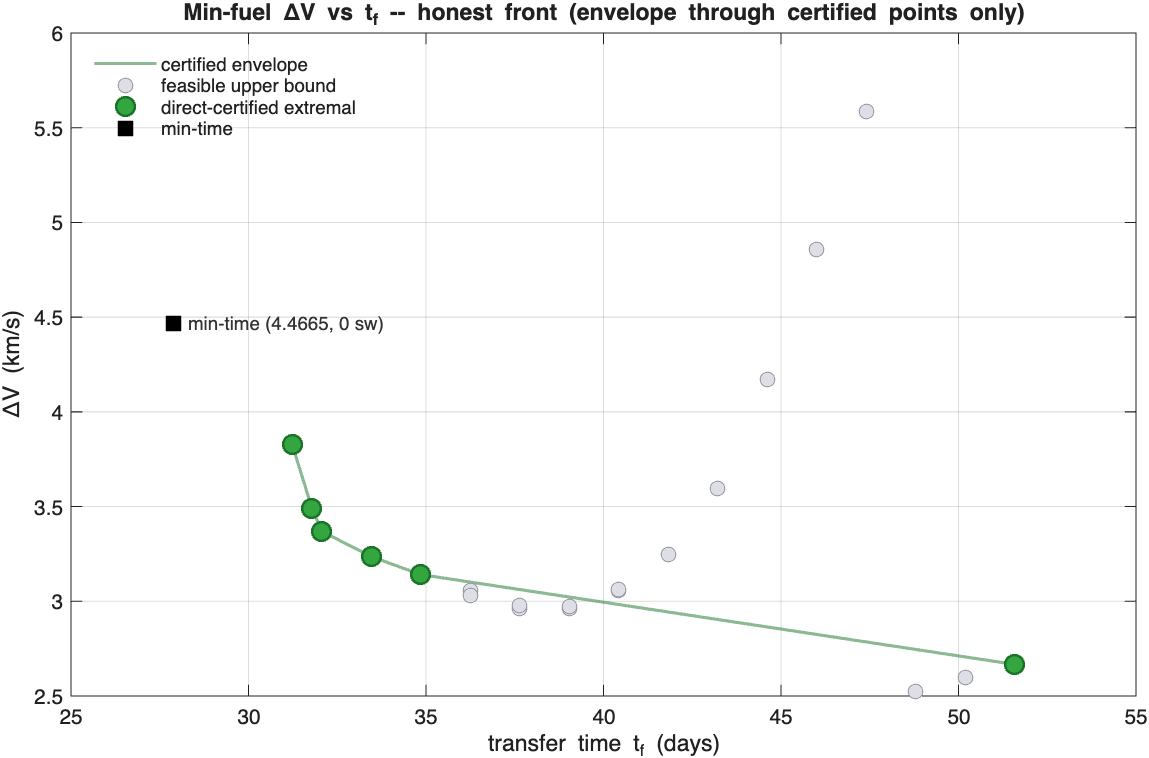
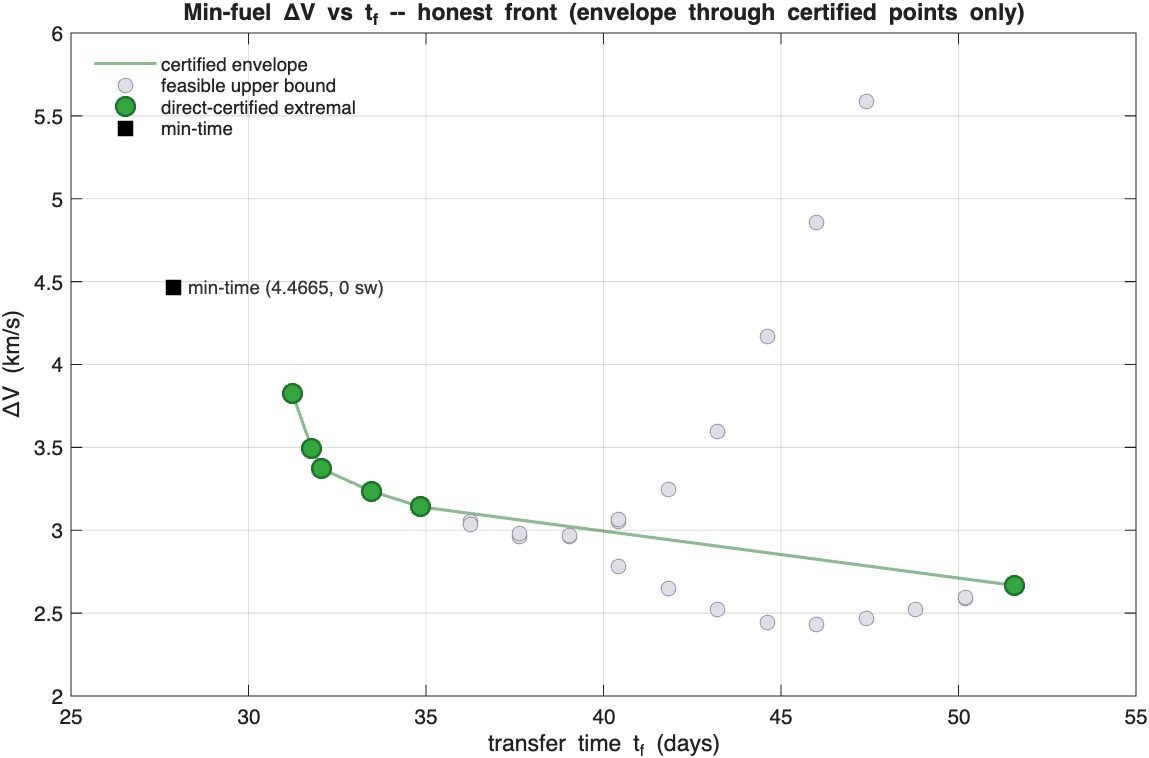
Few-switch down-chain sweeps 1.45-1.80x: campaign-best dV 2.434 km/s at 1.65x
Neighbor-chain from certified 1.85x down to 1.45x (all Solve_Succeeded,
1e-14): 1.45-1.70x improved by 0.27-3.12 km/s over the old scatter. New
front minimum 2.434 at 1.65x (45.5% below min-time); by loiter-monotonicity
the 1.70-1.85x members incl. the certified 1.85x are dominated. Switch count
morphs 22->43 descending -- the families connect over the fold. Every dn
point fails the empirical-beta gate while 1.85x sits pristine: the checker
model is now under test alongside the solutions (diagnostics = violation
locality at 1.65x + ms_band indirect arbiter).

diff --git a/NLP_lowThrust_GTO_tulip/LOW_THRUST_MINFUEL_CAMPAIGN.md b/NLP_lowThrust_GTO_tulip/LOW_THRUST_MINFUEL_CAMPAIGN.md
@@ -336,6 +336,39 @@ in 1.30–1.80× most likely belongs to the FEW-SWITCH family that holds
 certifier. Diagnostic still open: where the burn-sign violations live
 (near-switch vs mid-arc).
 
+## Few-switch down-chain SWEEPS the upper band (Jul 9 pm 2026, part 2)
+
+Neighbor-chain from the certified 1.85× (22-sw) solution down to 1.45× in
+0.05 steps (branch 'dn', light schedule, all finals Solve_Succeeded, defects
+~1e-14, primer ≤0.072°). The 1.45–1.70× wasteland collapses:
+
+| t_f× | ΔV dn | sw | prior best | Δ |
+|---|---|---|---|---|
+| 1.45 | **2.782** | 43 | 3.056 | −0.27 |
+| 1.50 | **2.647** | 35 | 3.246 | −0.60 |
+| 1.55 | **2.520** | 31 | 3.596 | −1.08 |
+| 1.60 | **2.444** | 27 | 4.170 | −1.73 |
+| 1.65 | **2.434** | 23 | 4.856 | −2.42 |
+| 1.70 | **2.466** | 23 | 5.585 | −3.12 |
+| 1.75/1.80 | 2.523 / 2.591 | 23 | ≈ ties the old greys | — |
+
+1. **New campaign-best ΔV: 2.434 km/s at 1.65× (46 d)** — 45.5% below
+   min-time. By loiter-monotonicity, front(t_f ≥ 1.65×) ≤ 2.434, so the
+   chain's own 1.70–1.85× values INCLUDING the certified 1.85× (2.667) are
+   dominated local minima (modulo the tulip-period phasing caveat).
+2. **The families connect**: switch count grows continuously descending
+   (22→23→27@1.60→31→35→43@1.45) — the few-switch family morphs into
+   many-switch structure approaching the crossing at ~1.40–1.45×. One
+   connected structure over a fold, not two isolated families.
+3. **Checker under test**: every dn point fails the empirical-β gate
+   (burn 62–75%, β-spread ~15%) despite clean Solve_Succeeded KKT
+   convergence, while 1.85× sits pristine (spread 0.6%). A discontinuity
+   that sharp between adjacent same-family points says either everything
+   above 1.25× is genuinely non-extremal, or the single-β model itself
+   breaks structurally in this region. CRITICAL-PATH diagnostics: (a)
+   violation locality + β-fit residual structure at 1.65× vs a certifying
+   point (pure post-processing); (b) ms_band indirect arbiter at 1.65×.
+
 ## The problem
 GTO (350 × 35786 km, ω = −25°) → a south-pole tulip point in the Earth–Moon
 CR3BP. 15 kg, 25 mN, Isp 2100 s (muStar = 0.012150585609624). Minimize